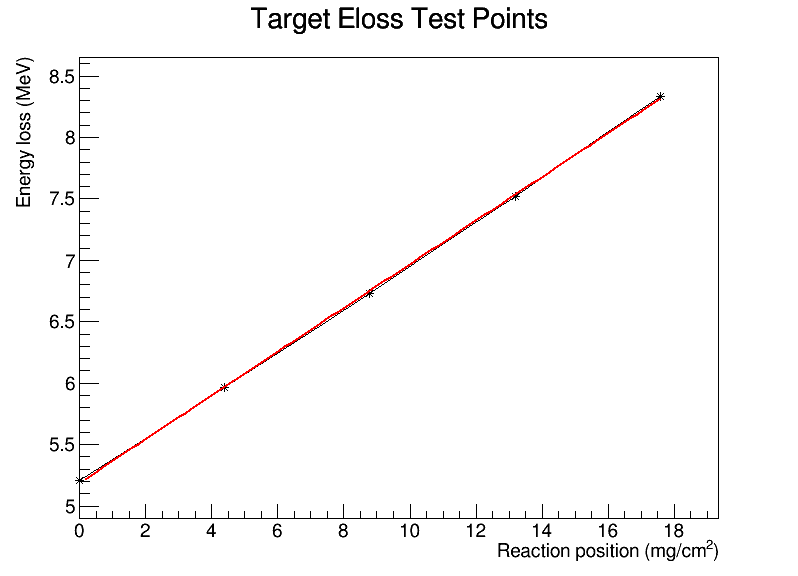
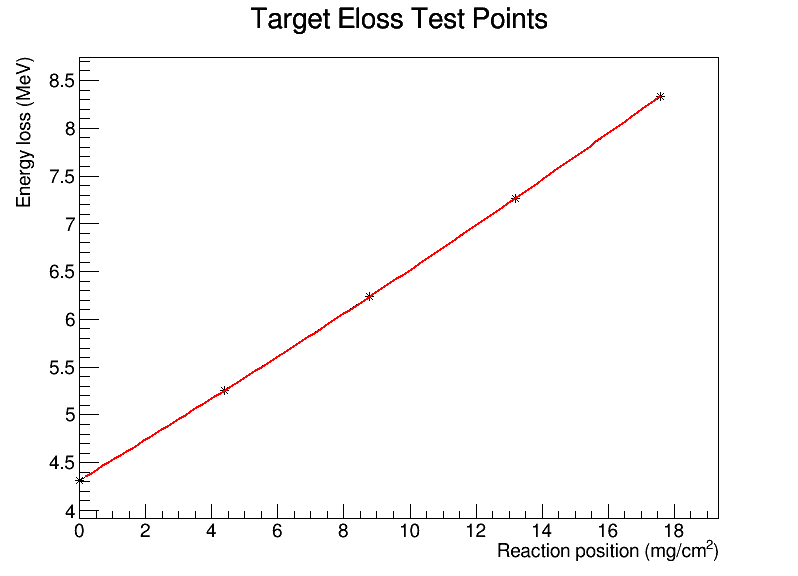
quadratic fit

diff --git a/macros/targElossTestPoints.C b/macros/targElossTestPoints.C
@@ -43,7 +43,7 @@ void targElossTestPoints() {
 	TTreeReaderValue<bool> isNeutHit(myReader, "isNeutHit");
 	TTreeReaderValue<vector<double>> dETests(myReader, "dETests");
 
-	TCanvas* c = new TCanvas("c", "Canvas", 800, 600);
+	TCanvas* canv = new TCanvas("c", "Canvas", 800, 600);
 
 	// Skip to desired entry
 	for (int i = 0;;) {
@@ -69,22 +69,34 @@ void targElossTestPoints() {
 	g.SetTitle("Target Eloss Test Points;Reaction position (mg/cm^{2});Energy loss (MeV)");
 	g.Draw("AC*");
 
-	// Linear fit to target total energy loss function
-	TF1 elossFit("linear", "([0]*x)+[1]");
-	elossFit.SetParName(0, "Slope");
-	elossFit.SetParName(1, "Intercept");
+	// Quadratic fit to target total energy loss function
+	TF1 elossFit("quadratic", "([0]*x*x)+([1]*x)+[2]");
 	elossFit.SetRange(-0.1, thickness+0.1);
+	elossFit.SetParameter(0, 1);
+	elossFit.SetParLimits(0, 0, 1);
 
 	g.Fit(&elossFit, "NRQ", "", -0.1, thickness+0.1);
 	elossFit.Draw("same");
 
 	// Invert target energy loss function and calculate target reaction position
-	double inthickreconimproved = min(max(((*dETarg) - elossFit.GetParameter(1)) / elossFit.GetParameter(0), 0.), (double)thickness);
+	//double inthickreconimproved = ((*dETarg) - elossFit.GetParameter(1)) / elossFit.GetParameter(0); // for linear fit
+
+	double a = elossFit.GetParameter(0);
+	cout << "a: " << a << endl;
+	double b = elossFit.GetParameter(1);
+	double c = elossFit.GetParameter(2) - (*dETarg);
+	double disc = (b*b) - (4. * a * c);
+	if (disc < 0) {
+		cout << "Discriminant < 0, something went very wrong!" << endl;
+		return;
+	}
+	double inthickreconimproved = 0.5 * (-b + sqrt(disc)) / a;
+	inthickreconimproved = min(max(inthickreconimproved, 0.), (double)thickness); // clamp value to within target dimensions
 	cout << "Real target Eloss: " << (*dETarg) << endl;
 	cout << "Sampled target reaction position: " << (*inthick) << endl;
 	cout << "Simulation reconstructed position: " << (*inthickrecimp) << endl;
 	cout << "Macro reconstructed position: " << inthickreconimproved << endl;
 
-	c->SaveAs("target_eloss_test_points.png");
+	canv->SaveAs("target_eloss_test_points.png");
 
 }
